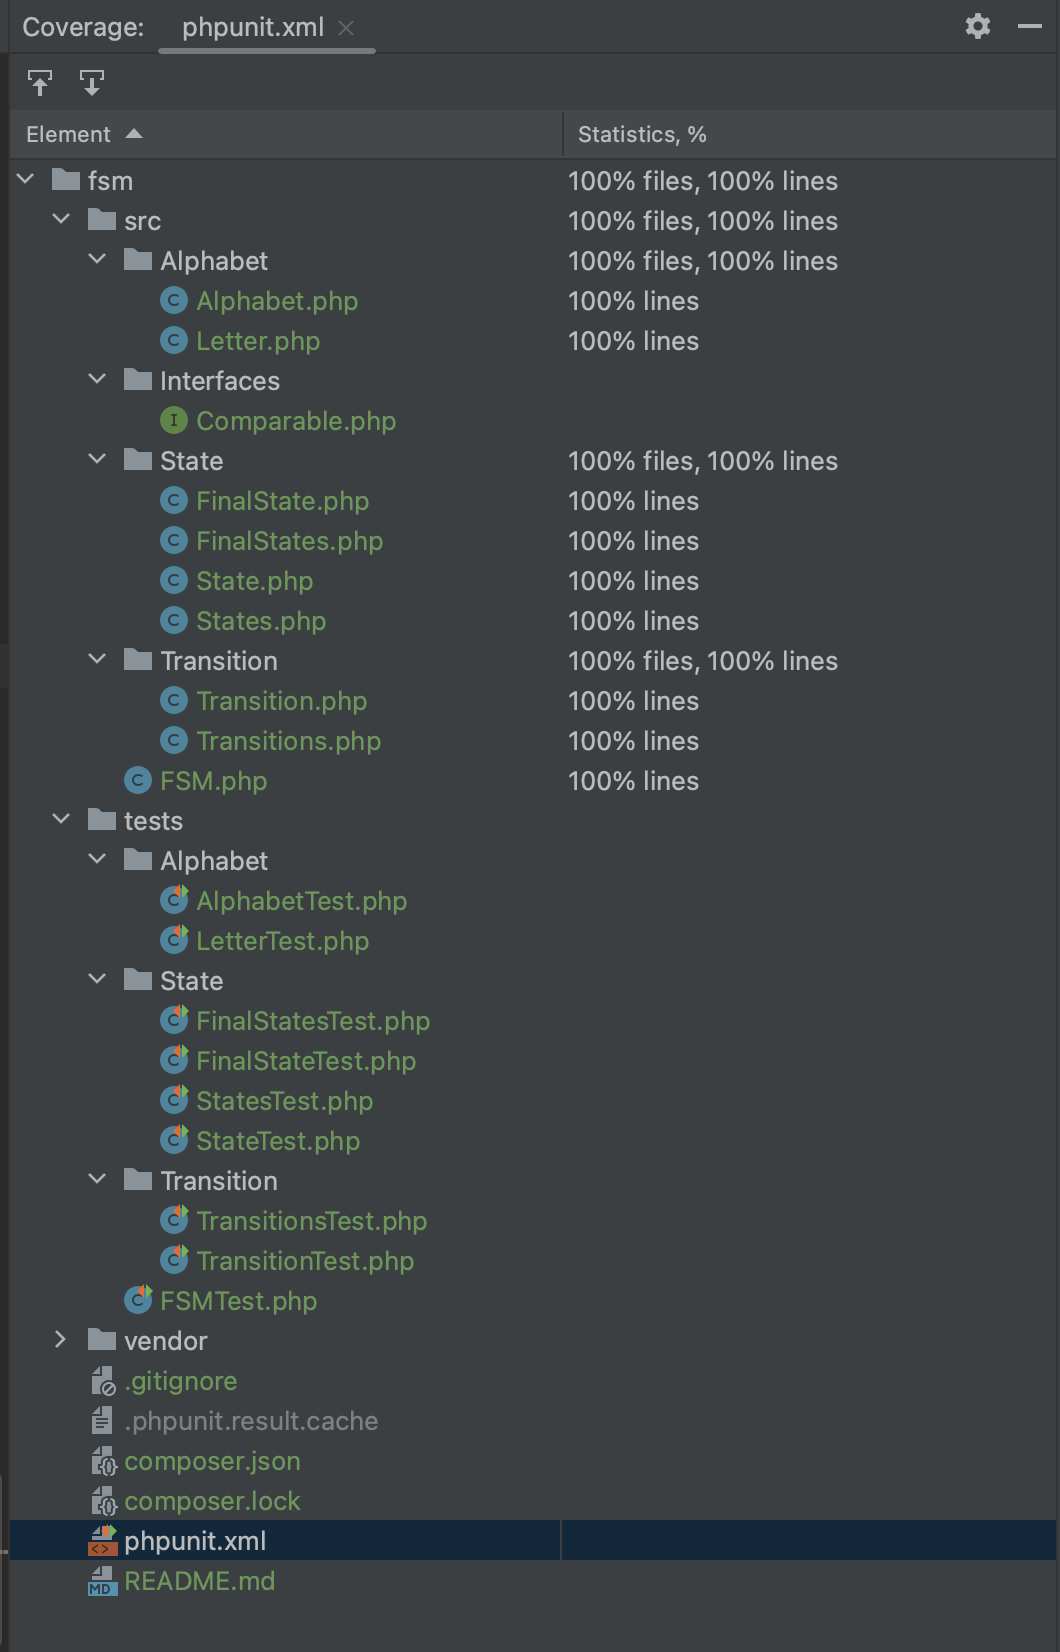
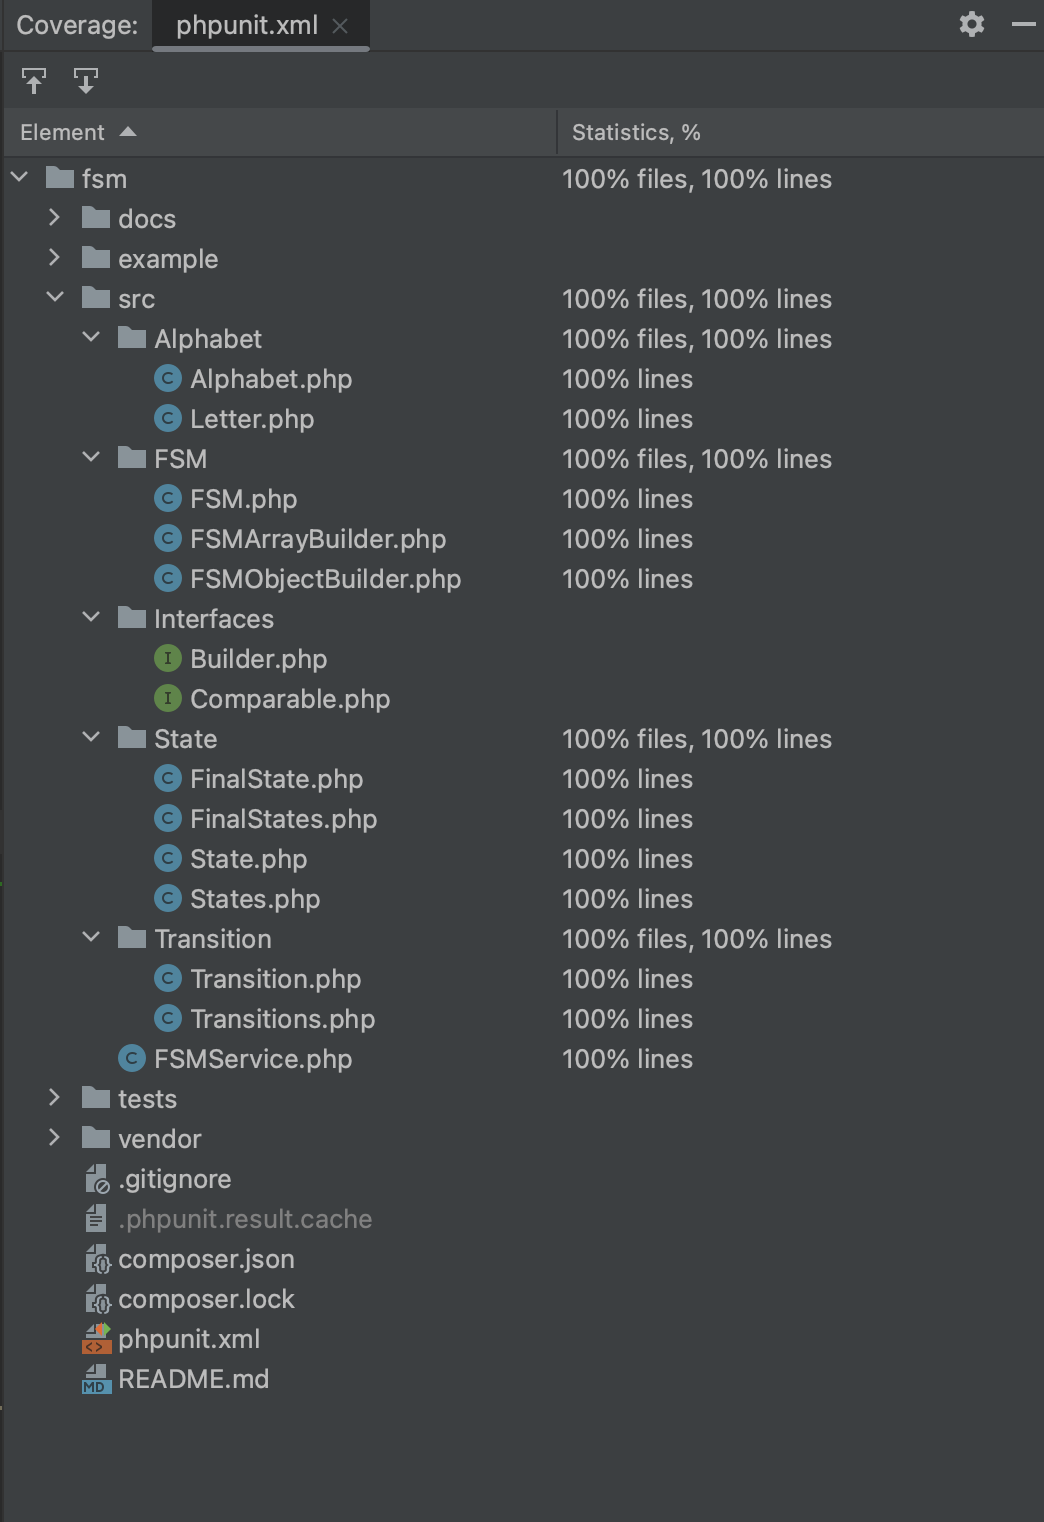
update demo

diff --git a/example/modThree.php b/example/modThree.php
@@ -5,6 +5,8 @@ declare(strict_types=1);
 require '../vendor/autoload.php';
 
 use FSM\Alphabet\Letter;
+use FSM\FSM\FSMArrayBuilder;
+use FSM\FSM\FSMObjectBuilder;
 use FSM\FSMService;
 use FSM\State\FinalState;
 use FSM\Transition\Transition;
@@ -27,56 +29,80 @@ $state2 = new FinalState('S2', '2');
 $letter0 = new Letter('0');
 $letter1 = new Letter('1');
 
-$states = [$state0, $state1, $state2];
-$alphabet = [$letter0, $letter1];
-$initialState = $state0;
-$finalState = [$state0, $state1, $state2];
-$transitions = [
+$fsmArrayBuilder = new FSMArrayBuilder();
+$fsmArrayBuilder->createFSM();
+$fsmArrayBuilder->setStates([$state0, $state1, $state2]);
+$fsmArrayBuilder->setAlphabet([$letter0, $letter1]);
+$fsmArrayBuilder->setInitState($state0);
+$fsmArrayBuilder->setFinalState([$state0, $state1, $state2]);
+$fsmArrayBuilder->setTransitions([
     new Transition($state0, $letter0, $state0),
     new Transition($state0, $letter1, $state1),
     new Transition($state1, $letter0, $state2),
     new Transition($state1, $letter1, $state0),
     new Transition($state2, $letter0, $state1),
     new Transition($state2, $letter1, $state2),
-];
+]);
+$fsm = $fsmArrayBuilder->getFSM();
 
-$fsm = FSMService::buildFromArray($states, $alphabet, $initialState, $finalState, $transitions);
+$fsmService = new FSMService($fsm);
 
 // Example 1 - 110
 echo "Example 1 - 110:\n";
 
-$fsm->processList([
+$fsmService->processList([
     $letter1,
     $letter1,
     $letter0,
 ]);
 
-echo 'result: ';
-echo $fsm->getFinalOutput(). "\n";
+echo 'Result: ';
+echo $fsmService->getFinalOutput(). "\n\n";
 
 // Example 2 - 1010
 
 echo "Example 2 - 1010:\n";
 
-$fsm->reset();
+$fsmService->reset();
 
-$fsm->processList([
+$fsmService->processList([
     $letter1,
     $letter0,
     $letter1,
     $letter0,
 ]);
 
-echo 'result: ';
-echo $fsm->getFinalOutput(). "\n";
+echo 'Result: ';
+echo $fsmService->getFinalOutput(). "\n\n";
 
 // Example 3 - 1100 1100 1010 1101 1001 1011
 
+$fsmObjectBuilder = new FSMObjectBuilder();
+$fsmObjectBuilder->createFSM();
+$fsmObjectBuilder->addState($state0);
+$fsmObjectBuilder->addState($state1);
+$fsmObjectBuilder->addState($state2);
+$fsmObjectBuilder->addLetter($letter0);
+$fsmObjectBuilder->addLetter($letter1);
+$fsmObjectBuilder->setInitState($state0);
+$fsmObjectBuilder->addFinalState($state0);
+$fsmObjectBuilder->addFinalState($state1);
+$fsmObjectBuilder->addFinalState($state2);
+$fsmObjectBuilder->addTransition(new Transition($state0, $letter0, $state0));
+$fsmObjectBuilder->addTransition(new Transition($state0, $letter1, $state1));
+$fsmObjectBuilder->addTransition(new Transition($state1, $letter0, $state2));
+$fsmObjectBuilder->addTransition(new Transition($state1, $letter1, $state0));
+$fsmObjectBuilder->addTransition(new Transition($state2, $letter0, $state1));
+$fsmObjectBuilder->addTransition(new Transition($state2, $letter1, $state2));
+$fsm = $fsmObjectBuilder->getFSM();
+
+$fsmService = new FSMService($fsm);
+
 echo "Example 3 - 1100 1100 1010 1101 1001 1011:\n";
 
-$fsm->reset();
+$fsmService->reset();
 
-$fsm->processList([
+$fsmService->processList([
     $letter1,
     $letter1,
     $letter0,
@@ -103,5 +129,5 @@ $fsm->processList([
     $letter1,
 ]);
 
-echo 'result: ';
-echo $fsm->getFinalOutput(). "\n";
+echo 'Result: ';
+echo $fsmService->getFinalOutput(). "\n";
